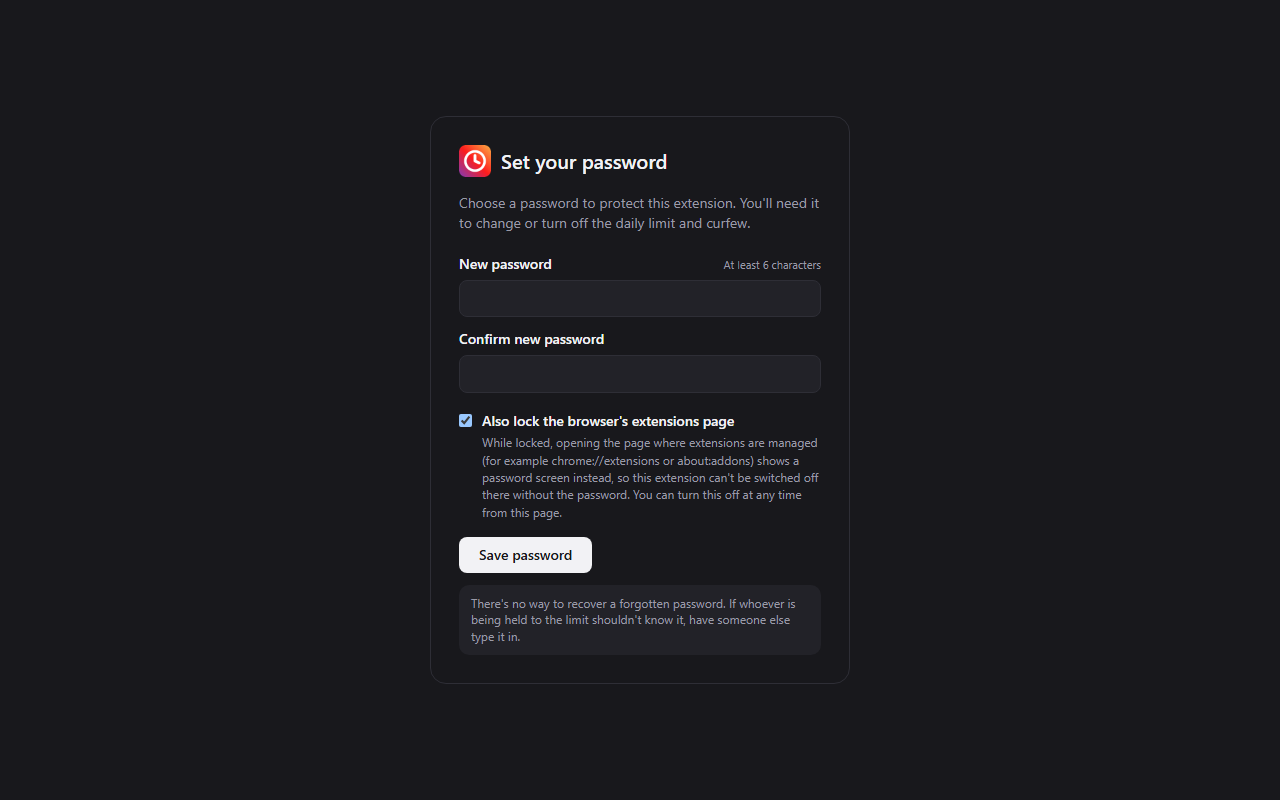
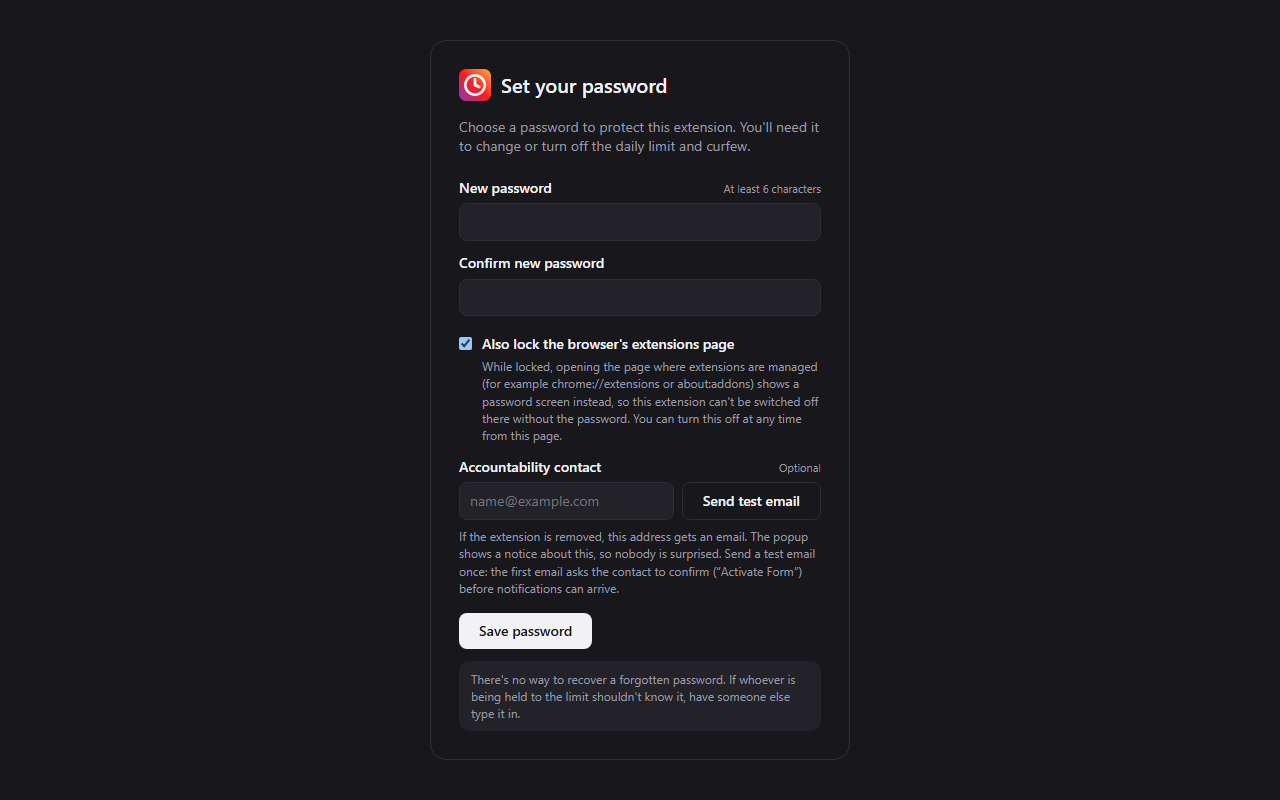
Document the removal notification and bump to 1.4.0

diff --git a/docs/privacy.html b/docs/privacy.html
@@ -31,8 +31,9 @@
 
     <h2>Summary</h2>
     <p>
-      Time Limiter for Instagram does not collect, transmit, sell or share any personal data.
-      Everything it stores stays on your device.
+      Time Limiter for Instagram does not collect, sell or share any personal data, and everything
+      it stores stays on your device. The one exception is the optional removal notification
+      described below, which only runs if you set an accountability contact.
     </p>
 
     <h2>What is stored, and where</h2>
@@ -49,6 +50,18 @@
       developer or anyone else. Removing the extension deletes it.
     </p>
 
+    <h2>Optional removal notification</h2>
+    <p>
+      During setup you can enter an accountability contact's email address. It is stored on your
+      device and shown in the extension's popup, so the person using the browser knows about it.
+      If the extension is then removed, the browser opens a page on this website that sends one
+      email to that contact through the email service
+      <a href="https://formsubmit.co/">FormSubmit</a>. The email contains only the fact that the
+      extension was removed, the browser name and the time. The contact's address is passed in the
+      part of the link that is not sent to this website's server. A "Send test email" button sends
+      the same kind of message once for testing. Nothing else is ever sent.
+    </p>
+
     <h2>Permissions and why they're needed</h2>
     <ul>
       <li><strong>Tabs:</strong> to tell whether the active tab is Instagram or X, and to close or replace those tabs when a limit is reached.</li>
@@ -59,7 +72,10 @@
     </ul>
 
     <h2>No tracking</h2>
-    <p>The extension has no analytics, ads or remote code, and makes no network requests.</p>
+    <p>
+      The extension has no analytics, ads or remote code, and makes no network requests of its
+      own. The only data ever sent is the optional removal notification described above.
+    </p>
 
     <h2>Contact</h2>
     <p>

diff --git a/docs/index.html b/docs/index.html
@@ -257,8 +257,9 @@
       <details>
         <summary>What data does it collect?</summary>
         <p>
-          None. Your usage time and settings stay in your browser's local extension storage and
-          are never sent anywhere. See the <a href="privacy.html">privacy policy</a>.
+          None. Your usage time and settings stay in your browser's local extension storage. The
+          only thing ever sent is the optional removal email described below. See the
+          <a href="privacy.html">privacy policy</a>.
         </p>
       </details>
       <details>
@@ -268,6 +269,15 @@
           the browser's extensions page, so the extension can't simply be switched off there
           without the password. Browsers still let an extension be removed from the toolbar menu,
           so the lock is a strong speed bump rather than an unbreakable wall.
+        </p>
+      </details>
+      <details>
+        <summary>Can someone be told if the extension is removed?</summary>
+        <p>
+          Yes, optionally. Enter an accountability contact's email during setup. If the extension is
+          removed, that person gets a short email. The popup shows a notice about it, so nobody is
+          surprised. Browsers don't report when an extension is only switched off, so that part
+          relies on the password lock.
         </p>
       </details>
       <details>

diff --git a/store/SUBMISSION.md b/store/SUBMISSION.md
@@ -43,7 +43,7 @@ Needed for one-click installs in Chrome and to force-install via policy (hides R
    - Single purpose: the **Single purpose** text below.
    - Permission justifications: the table below, one per permission.
    - Remote code: **No, I am not using remote code**.
-   - Data usage: tick nothing, then tick all three certification checkboxes.
+   - Data usage: tick **Personally identifiable information** (only the optional accountability contact's email address, sent via FormSubmit when the extension is removed or a test email is sent). Tick nothing else, then tick all three certification checkboxes.
    - Privacy policy URL: https://c-voelkle.github.io/instagram-time-limiter/privacy.html
 5. **Distribution** tab: **Public** for one-click installs by anyone, or **Unlisted** if only you need it for the force-install policy. All regions.
 6. **Submit for review**, and paste the **Notes to reviewer** if asked.
@@ -73,10 +73,11 @@ Shared daily time limit and curfew for Instagram and X, with a friendly reminder
 > • Bedtime curfew: after the time you pick (for example 22:00), Instagram and X are off until midnight.
 > • Friendly reminders: if time runs out while you're scrolling, a 10-second countdown appears before the tab closes. After that, opening the sites shows a cheerful animated reminder instead of the feed: "Es ist Zeit, Deutsch zu lernen!" or, after curfew, "Es ist Zeit, ein Buch zu lesen!"
 > • Password lock: changing or switching off the limits needs a password. Hand it to a friend, partner or parent to keep yourself accountable.
+> • Optional removal notification: set an accountability contact's email during setup. If the extension is removed, that person gets a short email. The popup clearly tells the user about this.
 > • Optional extensions-page lock: if you turn it on during setup, the browser's extensions page asks for the password first, so the extension can't be switched off on impulse.
 >
 > PRIVACY
-> No data leaves your device. No accounts, analytics, ads or network requests. Your usage time and settings are stored locally in your browser, and your password only as a secure hash.
+> Your usage time and settings are stored locally in your browser, and your password only as a secure hash. No accounts, analytics or ads. The only data ever sent is the optional removal email to the contact you choose.
 >
 > Free and open source (MIT): https://github.com/c-voelkle/instagram-time-limiter
 >
@@ -100,7 +101,7 @@ Edge and Opera ask for these. Firefox reviewers may too.
 
 **Remote code:** None. All code ships in the package.
 
-**Data collection:** None.
+**Data collection:** Only if the user sets an optional accountability contact: that email address is sent to FormSubmit (formsubmit.co) to deliver one notification when the extension is removed (via `runtime.setUninstallURL`), or a test message on request. Disclosed in the popup and the privacy policy.
 
 ---
 
@@ -116,4 +117,4 @@ Edge and Opera ask for these. Firefox reviewers may too.
 >
 > About the optional extensions-page lock: during setup, users can choose (clearly labelled checkbox, explained on the setup page) to require their password before the browser's extensions page opens. It's meant for people who want to hold themselves accountable. It never prevents removal: the browser's own "Remove" option in the toolbar context menu always works, and the lock can be turned off at any time from the setup page. When it's on, visiting the extensions page shows a password screen. The correct password (e.g. "reviewer1") opens the real page for 5 minutes.
 >
-> No data is collected or transmitted. The extension makes no network requests.
+> Optional removal notification: if the user enters an "Accountability contact" email during setup, the extension registers an uninstall URL (runtime.setUninstallURL) pointing to https://c-voelkle.github.io/instagram-time-limiter/goodbye.html. When the extension is removed, that page sends one email to the contact via FormSubmit. The popup permanently shows a notice about this. The extension itself makes no network requests.

diff --git a/README.md b/README.md
@@ -18,7 +18,8 @@ Works in **Chrome, Edge, Brave, Opera, Vivaldi, Arc** and **Firefox 140+**.
 - **Optional extensions-page lock.** If you tick it during setup, opening the browser's extensions page (`chrome://extensions`, `edge://extensions`, `about:addons`, …) shows a password screen instead, so the extension can't be switched off there on impulse.
 
   A correct password unlocks settings and that page for 5 minutes. The password is stored only as a salted PBKDF2-SHA-256 hash and **can't be recovered if forgotten**.
-- **Private by design.** No network requests, analytics or accounts. See the [privacy policy](https://c-voelkle.github.io/instagram-time-limiter/privacy.html).
+- **Optional removal notification.** Set an accountability contact during setup and, if the extension is removed, that address gets an email (sent via [FormSubmit](https://formsubmit.co/) from `docs/goodbye.html`). The popup openly tells the user about this. Disabling the extension can't be detected. Only removal can.
+- **Private by design.** No analytics or accounts. Apart from the optional removal email, nothing leaves the device. See the [privacy policy](https://c-voelkle.github.io/instagram-time-limiter/privacy.html).
 
 ### What the password can't stop
 
